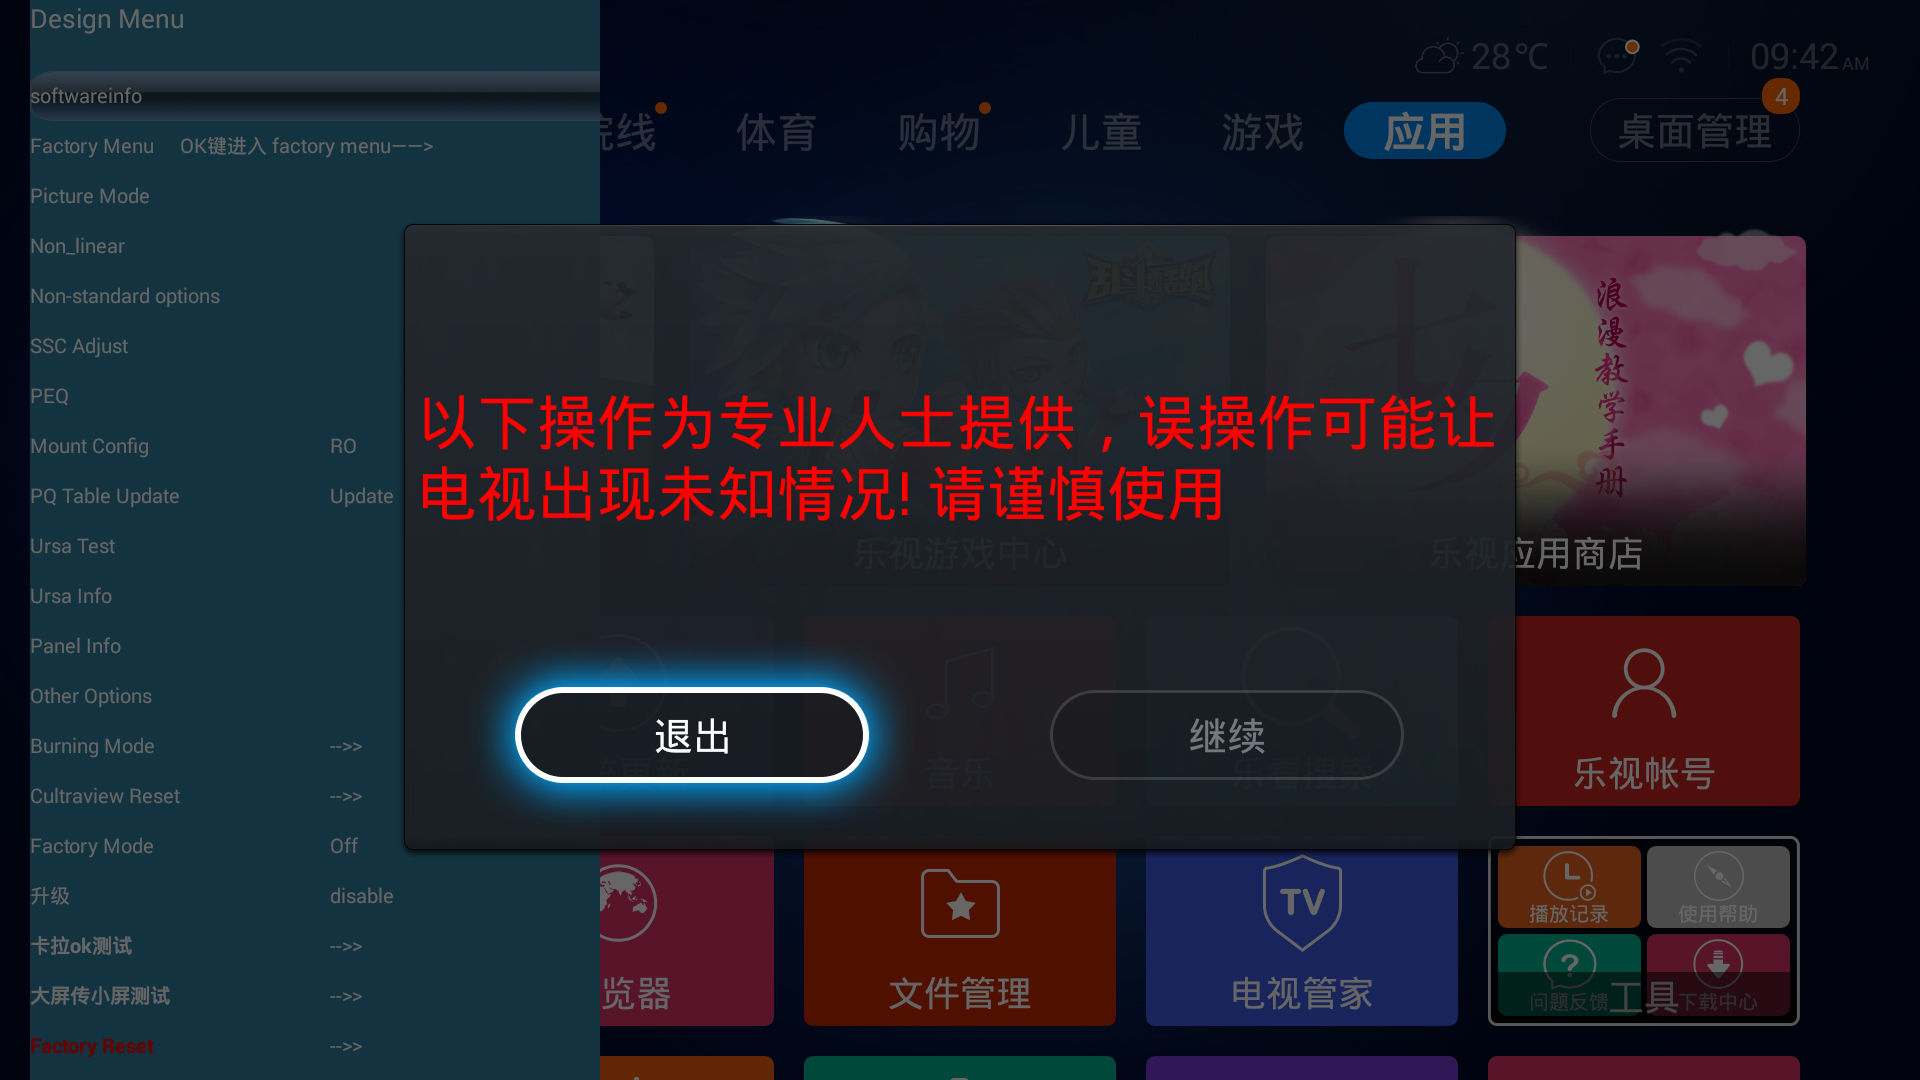
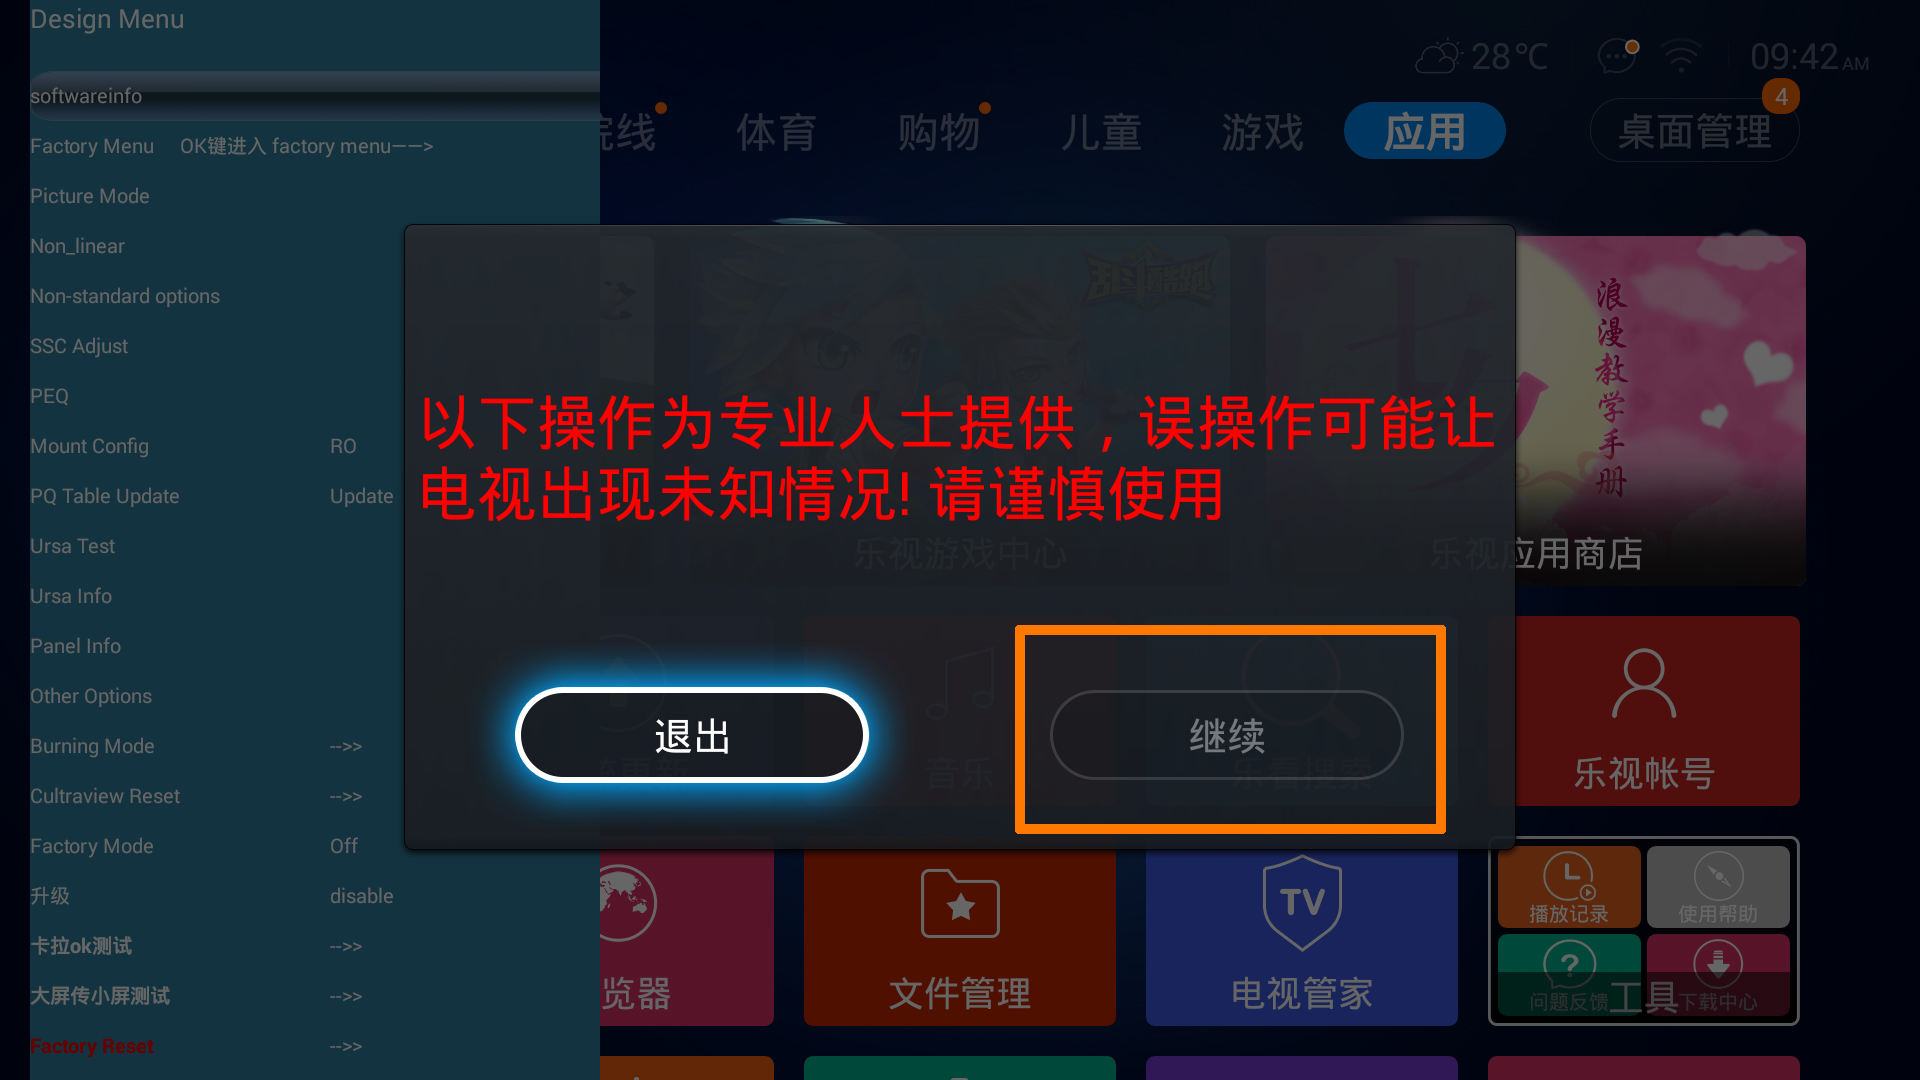
update:调整一下图片样式

Changed region(s): [[0.5312, 0.7333, 0.75, 0.7944], [0.5312, 0.5806, 0.75, 0.6111]]

diff --git a/web/document_xplay_android.html b/web/document_xplay_android.html
@@ -151,7 +151,7 @@
 
                 <h2 id="toc_6">依次按数字键 2 5 8 0</h2>
 
-                <p><img src="assets/img/doc/source_select_2(v2).jpg" alt="工厂菜单进入经过"/></p>
+                <p><img src="assets/img/doc/source_select_2.png" alt="工厂菜单进入经过"/></p>
 
                 <h2 id="toc_7">按&quot;右方向键&quot;,会高亮&quot;继续&quot;字样,然后按&quot;确定&quot;.</h2>
 
